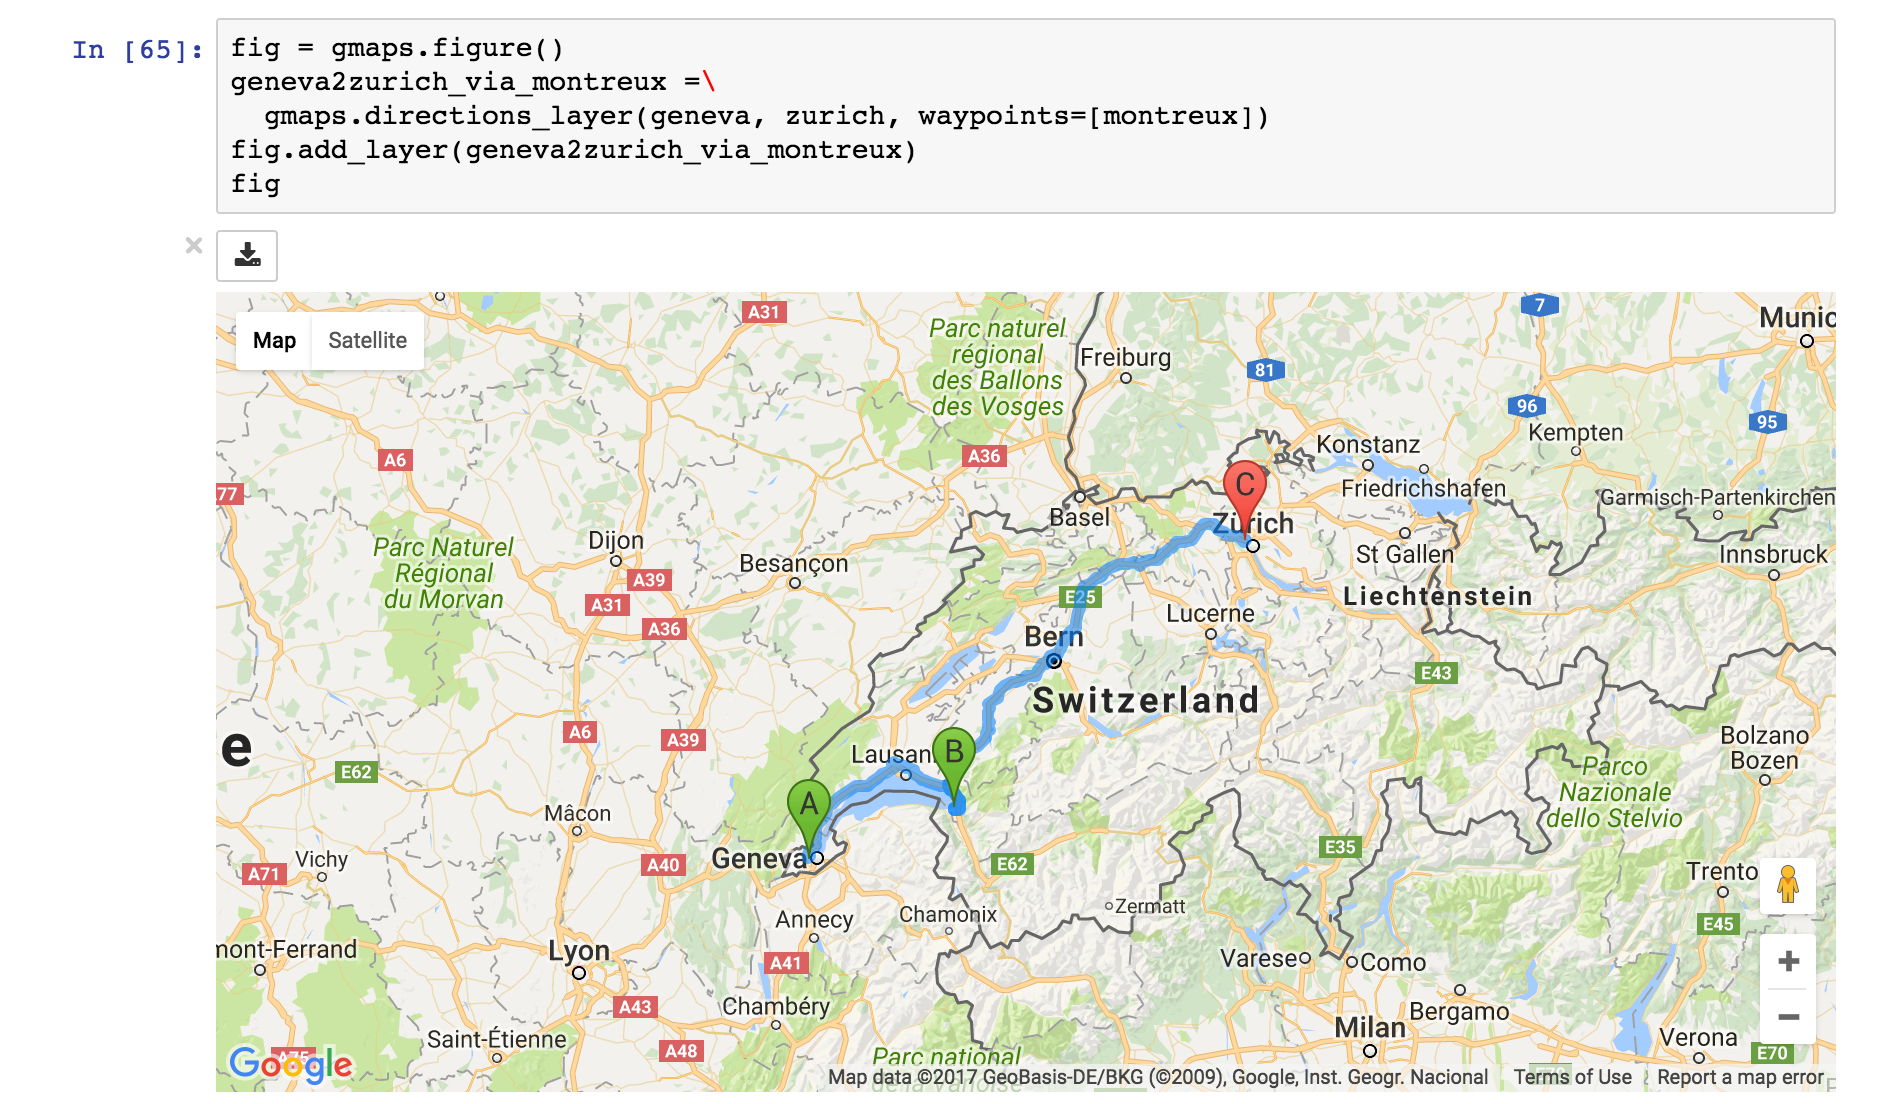
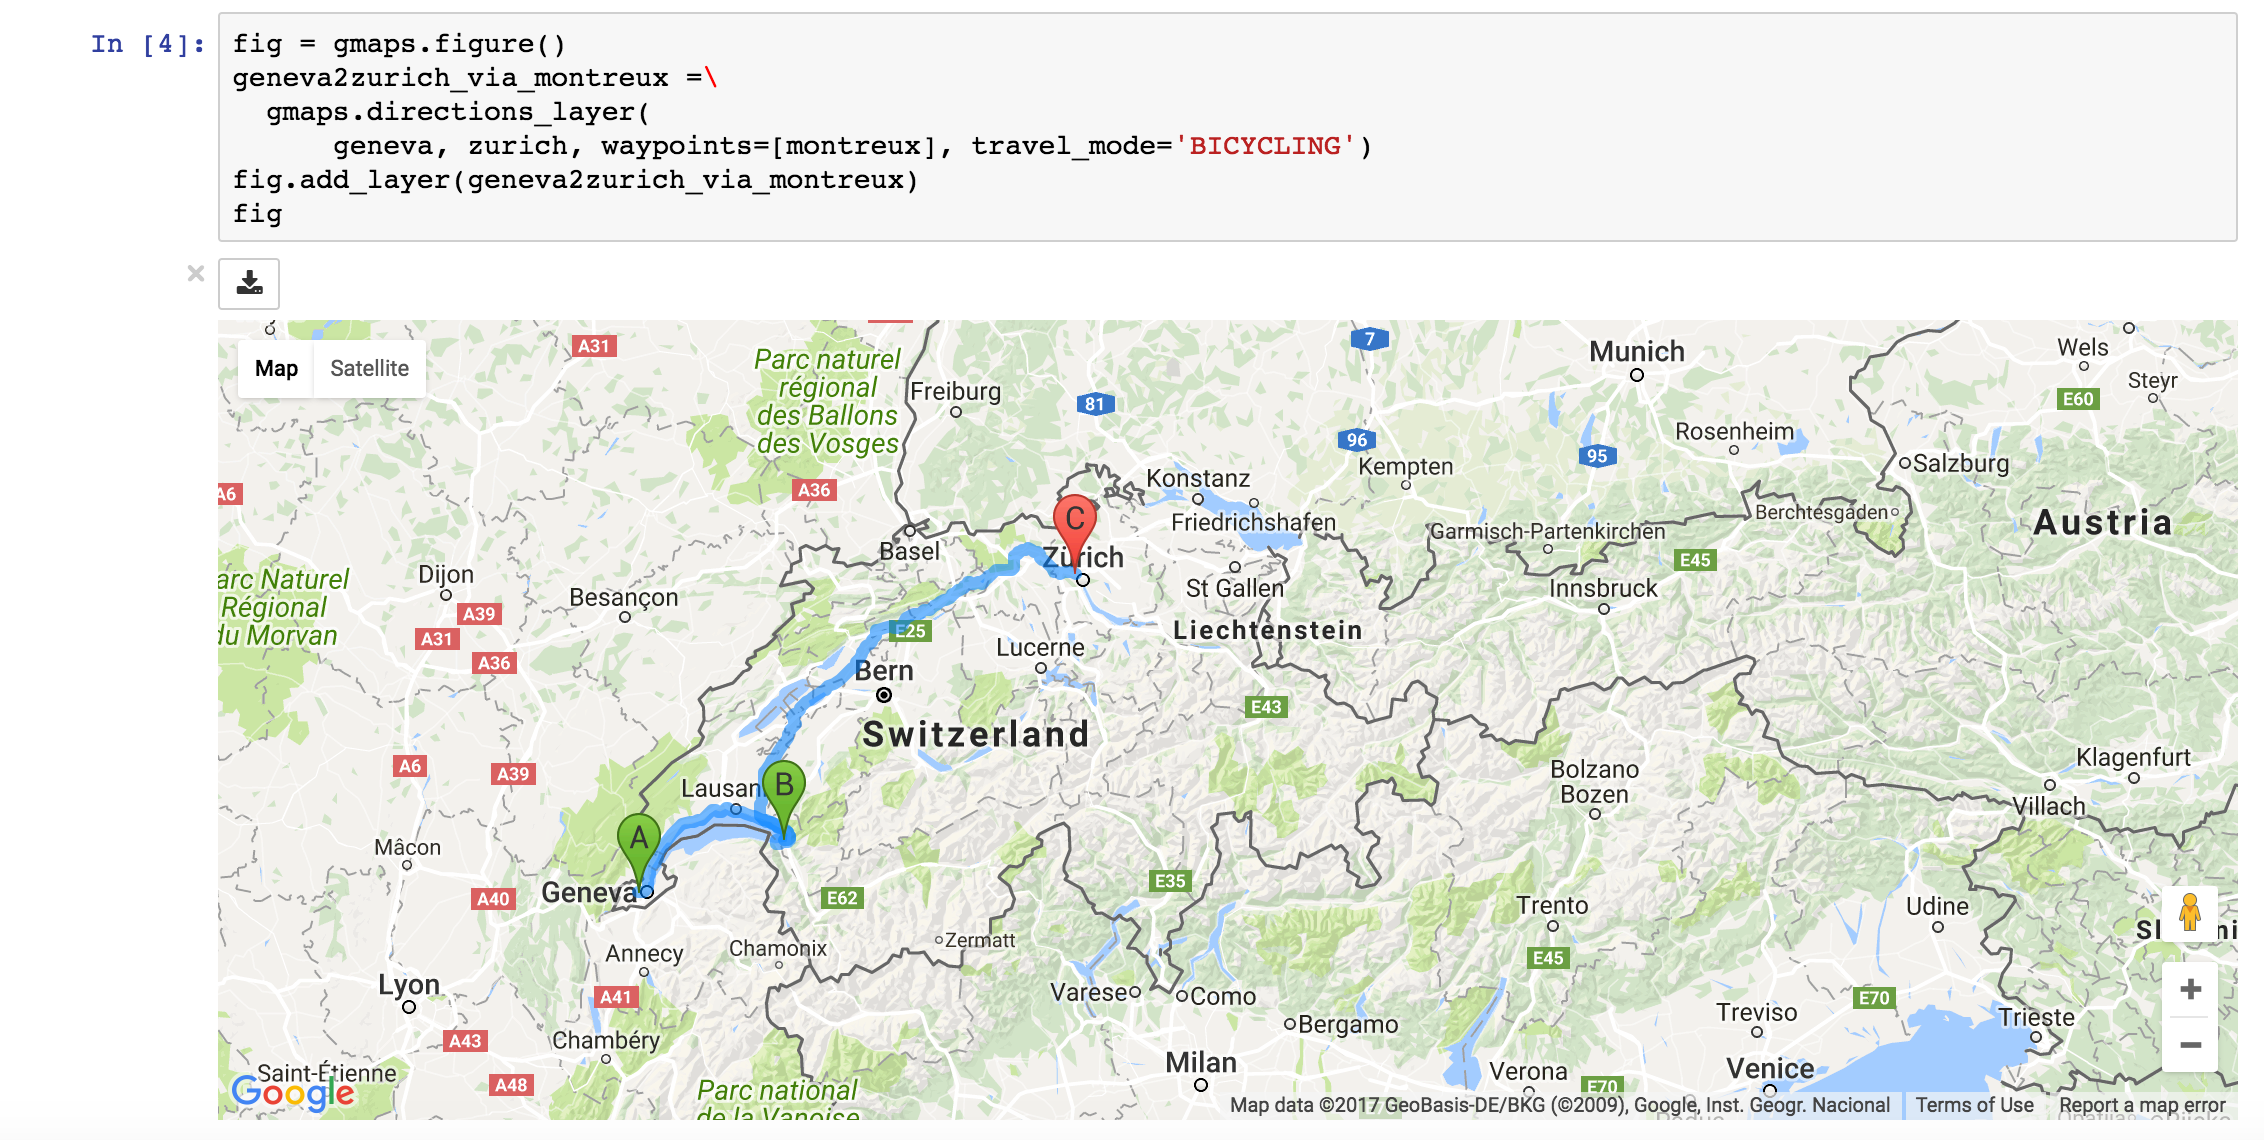
Add information about travel mode to the tutorial

diff --git a/docs/source/gmaps.rst b/docs/source/gmaps.rst
@@ -454,7 +454,7 @@ So far, we have only considered visualizing GeoJSON geometries that come with `j
 Directions layer
 ^^^^^^^^^^^^^^^^
 
-`gmaps` supports drawing routes based on the Google maps `directions service <https://developers.google.com/maps/documentation/javascript/examples/directions-simple>`_. At the moment, this only supports driving directions between points denoted by latitude and longitude::
+`gmaps` supports drawing routes based on the Google maps `directions service <https://developers.google.com/maps/documentation/javascript/examples/directions-simple>`_. At the moment, this only supports directions between points denoted by latitude and longitude::
 
   import gmaps
   import gmaps.datasets
@@ -472,12 +472,16 @@ Directions layer
 
 .. image:: directions_layer_simple.png
 
-You can also pass waypoints. The can pass up to 23 waypoints (this is a limitation of the Google Maps directions service)::
+You can also pass waypoints and customise the directions request. You can pass up to 23 waypoints, and waypoints are not supported when the travel mode is ``'TRANSIT'`` (this is a limitation of the Google Maps directions service)::
 
   fig = gmaps.figure()
-  geneva2zurich_via_montreux =\
-      gmaps.directions_layer(geneva, zurich, waypoints=[montreux])
+  geneva2zurich_via_montreux = gmaps.directions_layer(
+          geneva, zurich, waypoints=[montreux],
+          travel_mode='BICYCLING')
   fig.add_layer(geneva2zurich_via_montreux)
   fig
 
 .. image:: directions_layer_waypoints.png
+
+The full list of options is given as part of the documentation for the
+:func:`gmaps.directions_layer`.
